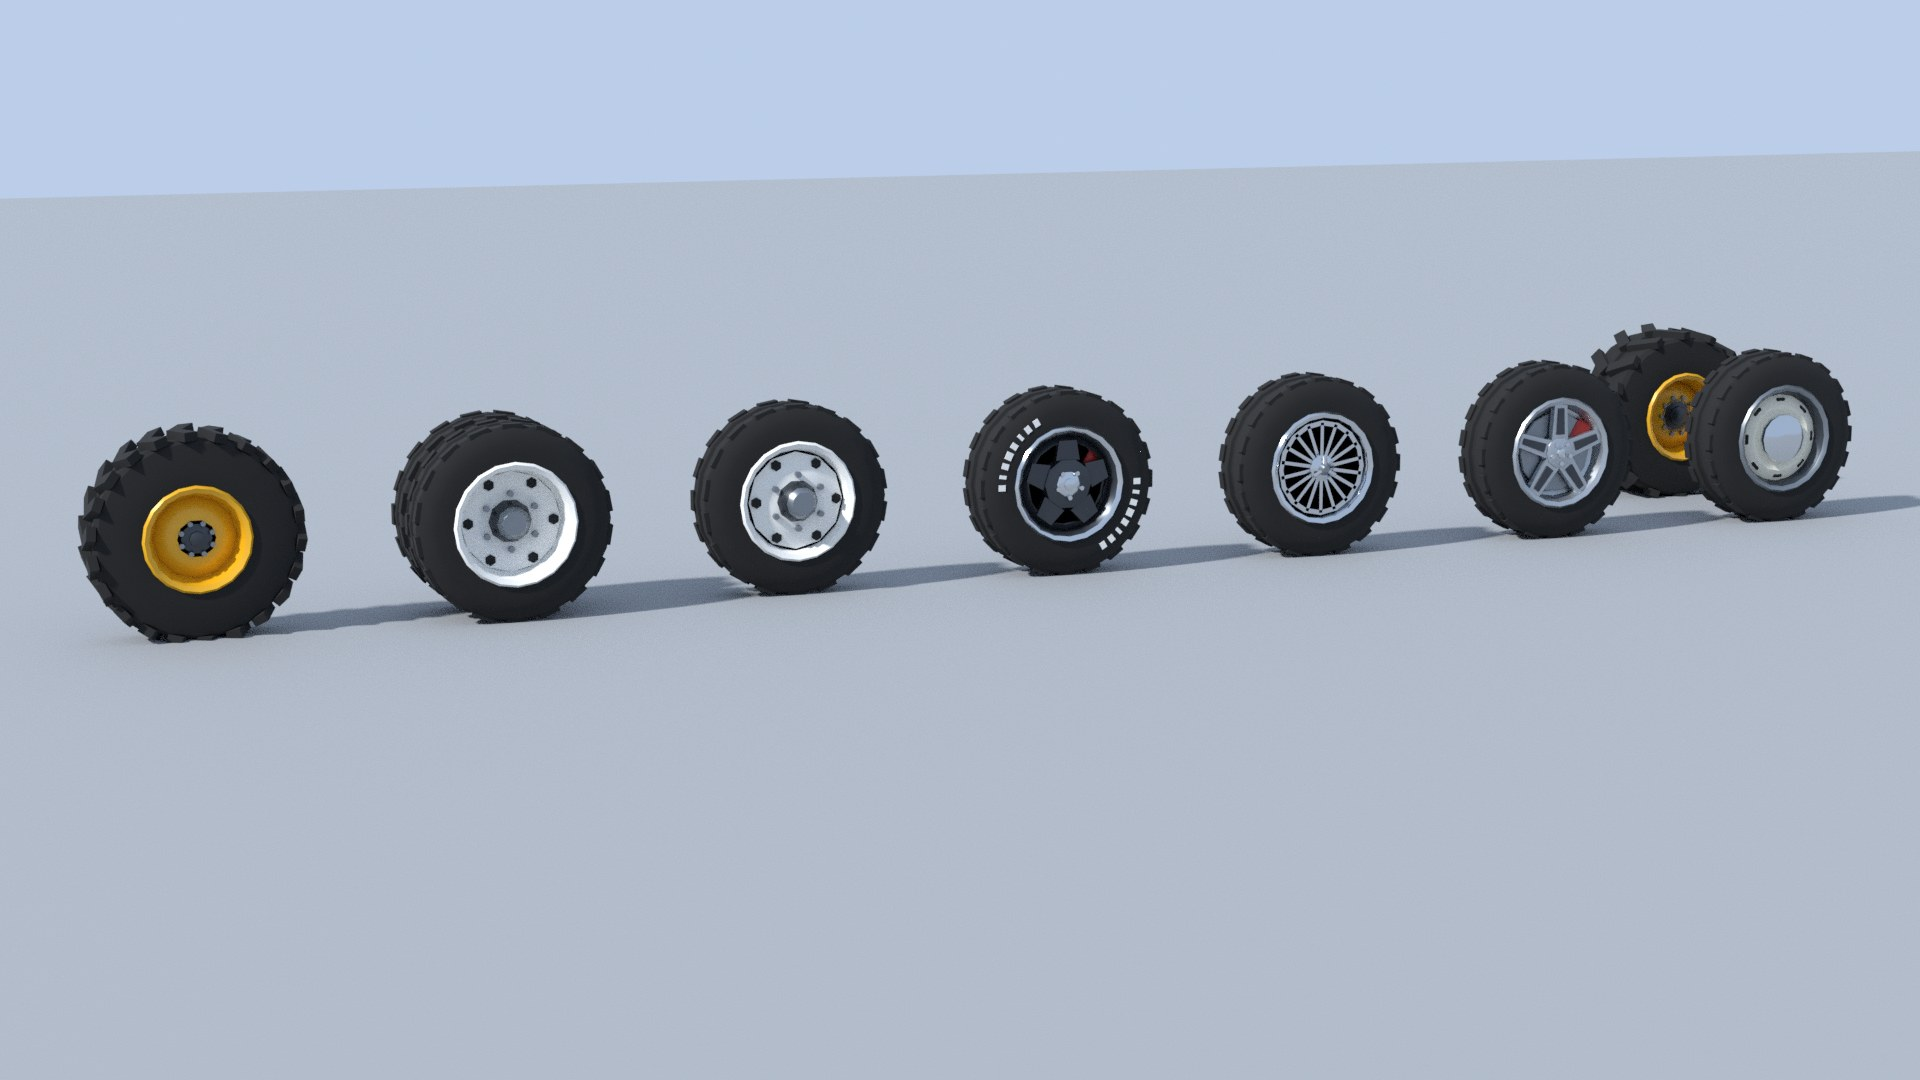
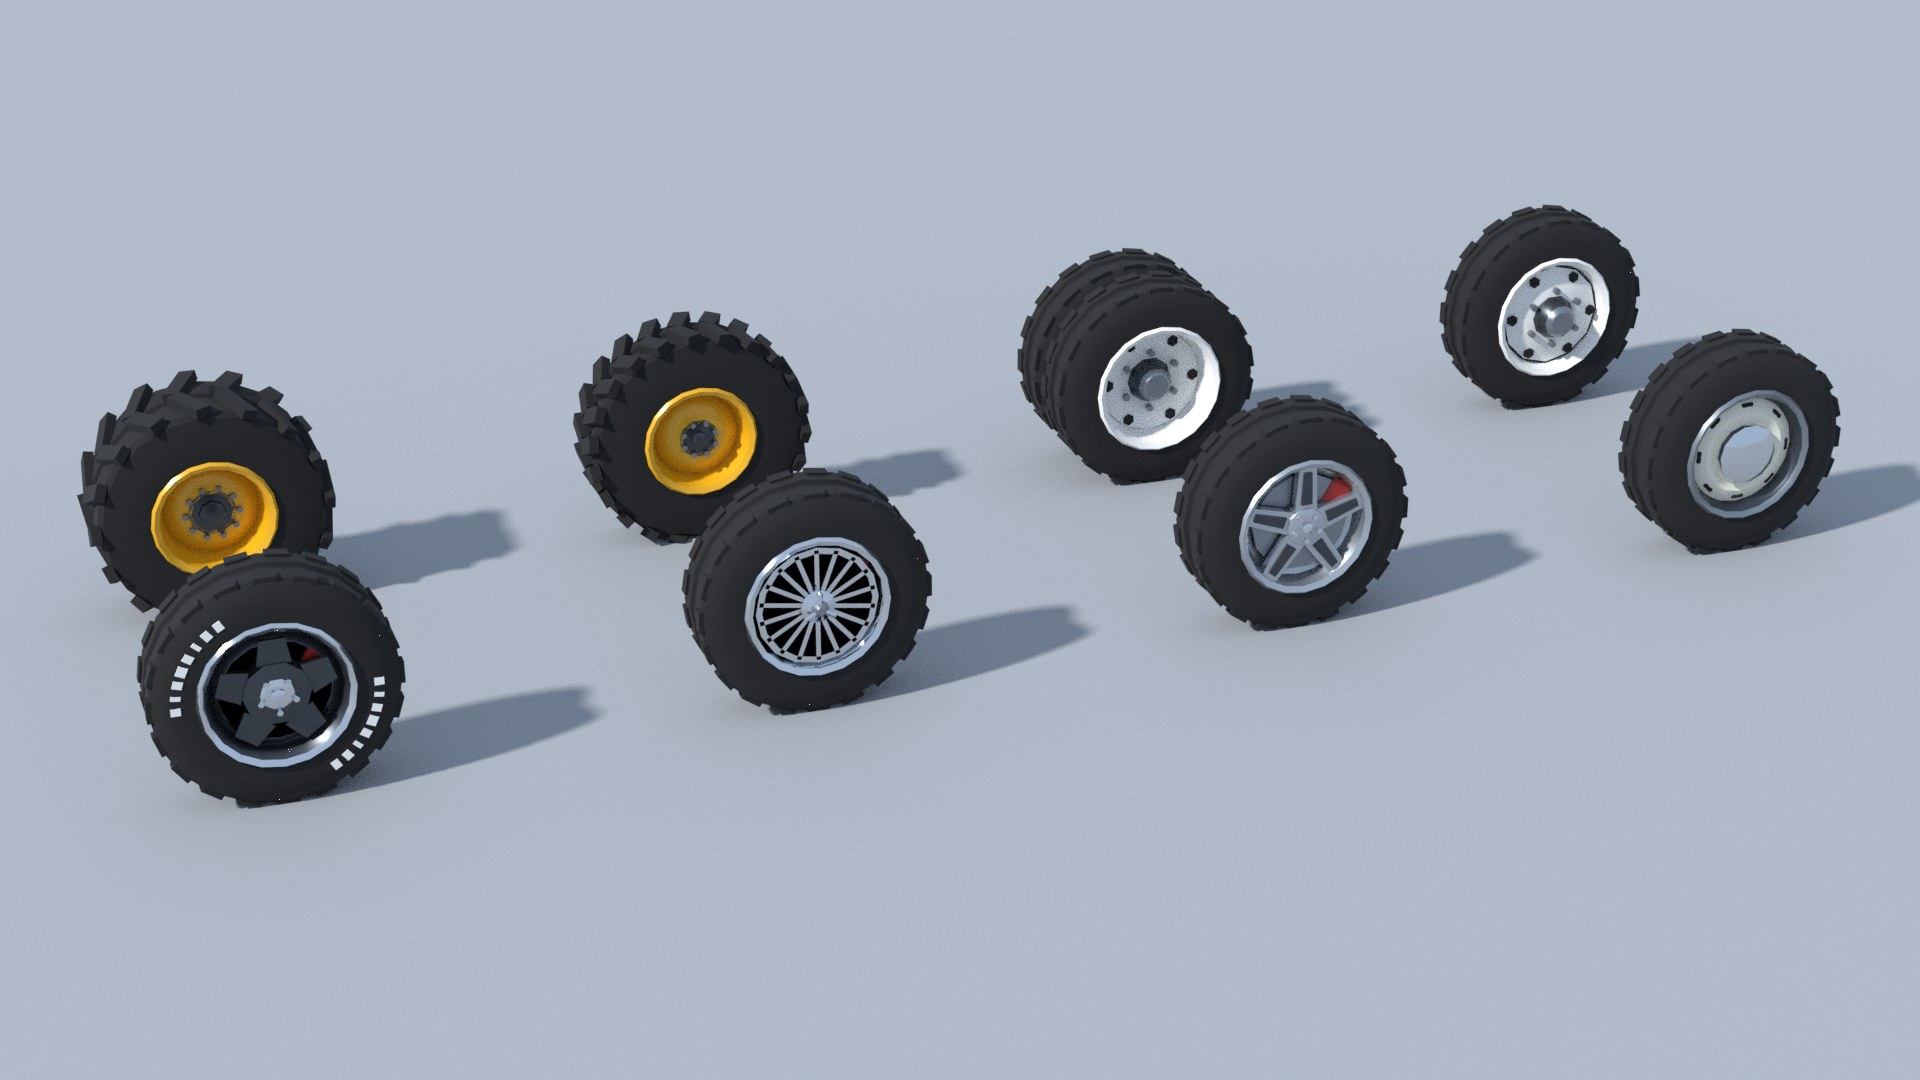
vehicles: wheel preview sheet shows all eight wheels

diff --git a/tools/blender/vehicles.py b/tools/blender/vehicles.py
@@ -107,8 +107,8 @@ def main():
         return
     for w in wheel_list:
         w.location.z = wheels.R
-    if not GROUP:
-        shot(wheel_list, 'wheels', 158, 10, s, res, cols=7, gap=0.3)
+    if not GROUP or 'wheels' in GROUP:
+        shot(wheel_list, 'wheels', 160, 26, s, res, cols=4, gap=0.75)
     for w in wheel_list:
         w.location.z = 0
     for g, obs in groups.items():
